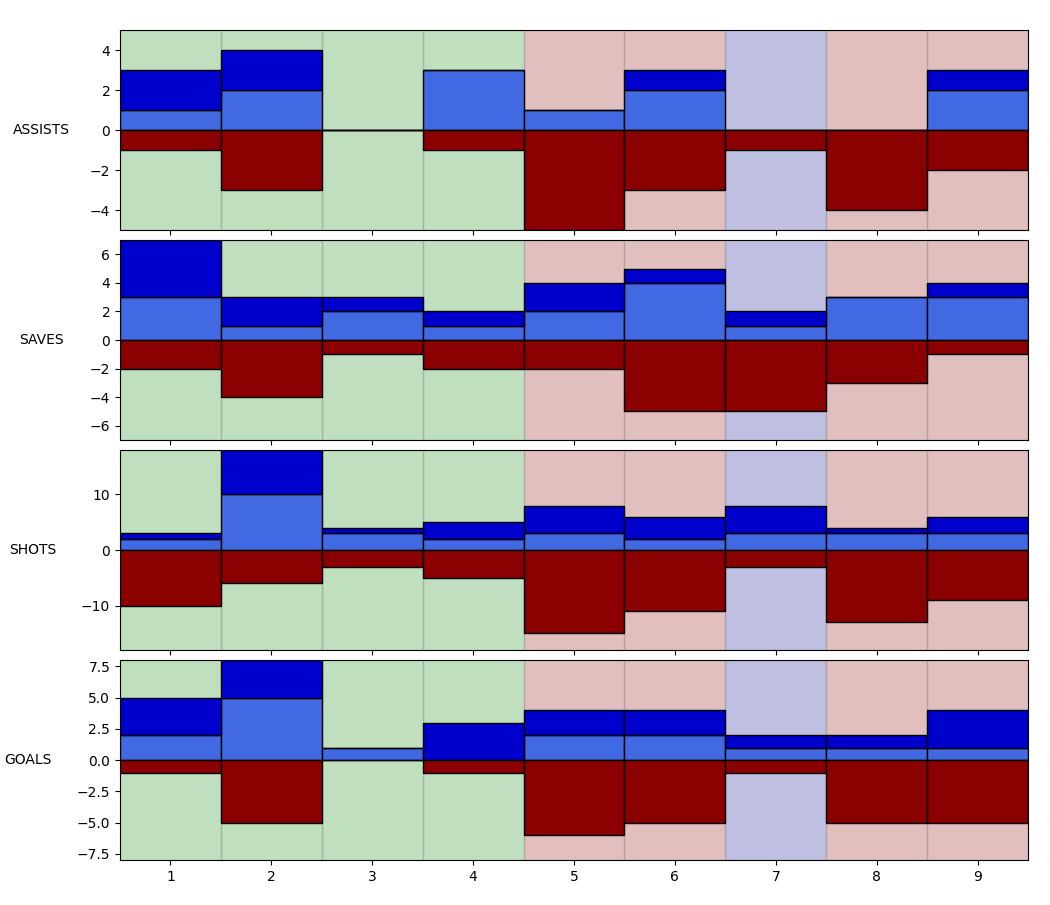
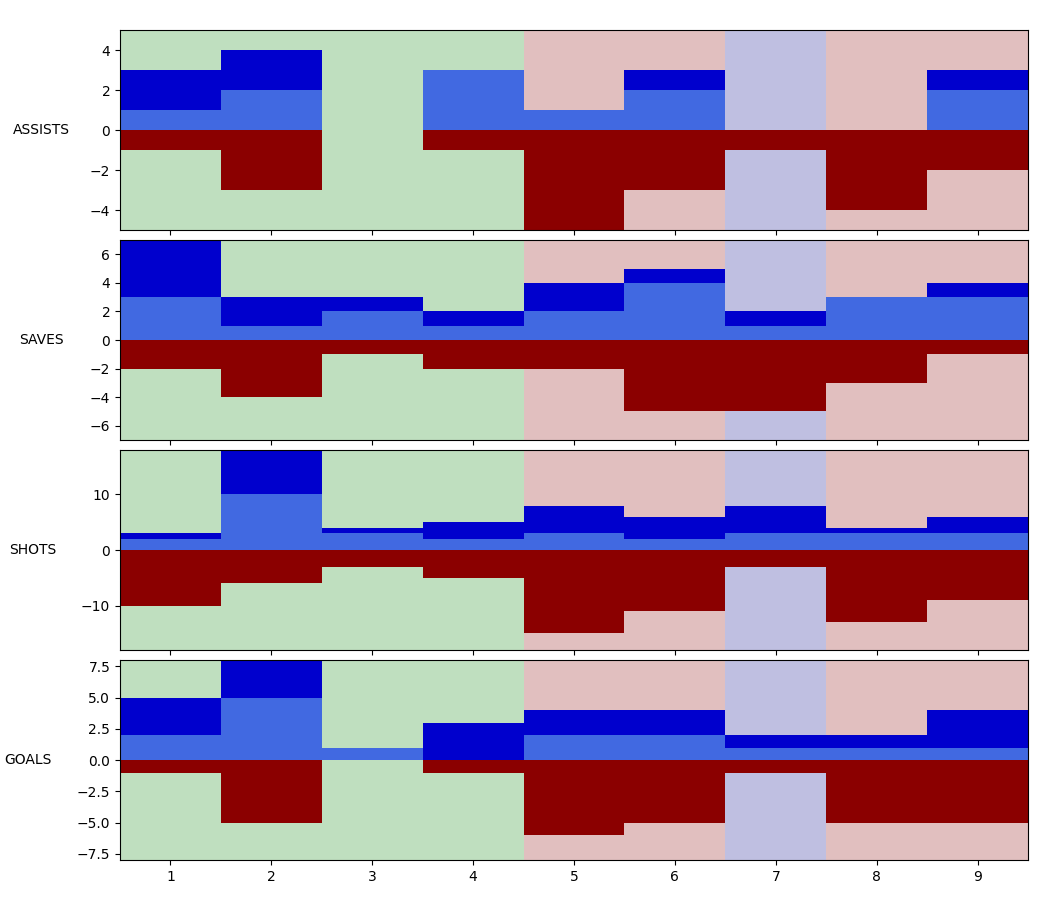
Removed outlines from ASSISTS, SAVES, SHOTS, GOALS charts

diff --git a/src/boxcarstest.py b/src/boxcarstest.py
@@ -31,8 +31,8 @@ from PIL import Image
 
 startTime = time.time()
 
-check_new = False  # Only processes new files (in separate directory)
-show_xg_scorelines = True # Shows xG scorelines and normal scorelines and replay names of games
+check_new = True  # Only processes new files (in separate directory)
+show_xg_scorelines = False # Shows xG scorelines and normal scorelines and replay names of games
 save_and_crop = True # Saves an image of the dashboard and then crops charts into their own images
 
 # Names in Rocket League
@@ -2711,12 +2711,12 @@ for entry in range(0, len(result_array_num)):
     new_result_array_num_up = limit
     new_result_array_num_down = -limit
 
-ax8.bar(range(1, games_nr + 1), new_result_array_num_up, color=result_color, width=1, alpha=0.25, ec="grey")
-ax8.bar(range(1, games_nr + 1), new_result_array_num_down, color=result_color, width=1, alpha=0.25, ec="grey")
+ax8.bar(range(1, games_nr + 1), new_result_array_num_up, color=result_color, width=1, alpha=0.25)
+ax8.bar(range(1, games_nr + 1), new_result_array_num_down, color=result_color, width=1, alpha=0.25)
 
-ax8.bar(range(1, games_nr + 1), my_goals_over_time, color=my_color, width=1, ec="black")
-ax8.bar(range(1, games_nr + 1), your_goals_over_time, color=your_color, bottom=my_goals_over_time, width=1, ec="black")
-ax8.bar(range(1, games_nr + 1), their_goals_over_time, color=their_color, width=1, ec="black")
+ax8.bar(range(1, games_nr + 1), my_goals_over_time, color=my_color, width=1)
+ax8.bar(range(1, games_nr + 1), your_goals_over_time, color=your_color, bottom=my_goals_over_time, width=1)
+ax8.bar(range(1, games_nr + 1), their_goals_over_time, color=their_color, width=1)
 for streak_game_num in streak_start_games:
     plt.axvline(x=streak_game_num + 0.5, color='black', linestyle='-')
 ax8.set_ylabel("GOALS", rotation="horizontal", ha="center", va="center", labelpad=35)
@@ -2735,12 +2735,12 @@ for entry in range(0, len(result_array_num)):
     new_result_array_num_up = limit
     new_result_array_num_down = -limit
 
-ax9.bar(range(1, games_nr + 1), new_result_array_num_up, color=result_color, width=1, alpha=0.25, ec="grey")
-ax9.bar(range(1, games_nr + 1), new_result_array_num_down, color=result_color, width=1, alpha=0.25, ec="grey")
+ax9.bar(range(1, games_nr + 1), new_result_array_num_up, color=result_color, width=1, alpha=0.25)
+ax9.bar(range(1, games_nr + 1), new_result_array_num_down, color=result_color, width=1, alpha=0.25)
 
-ax9.bar(range(1, games_nr + 1), my_shots_over_time, color=my_color, width=1, ec="black")
-ax9.bar(range(1, games_nr + 1), your_shots_over_time, color=your_color, bottom=my_shots_over_time, width=1, ec="black")
-ax9.bar(range(1, games_nr + 1), their_shots_over_time, color=their_color, width=1, ec="black")
+ax9.bar(range(1, games_nr + 1), my_shots_over_time, color=my_color, width=1)
+ax9.bar(range(1, games_nr + 1), your_shots_over_time, color=your_color, bottom=my_shots_over_time, width=1)
+ax9.bar(range(1, games_nr + 1), their_shots_over_time, color=their_color, width=1)
 ax9.set_xticklabels("")
 for streak_game_num in streak_start_games:
     plt.axvline(x=streak_game_num + 0.5, color='black', linestyle='-')
@@ -2759,13 +2759,13 @@ for entry in range(0, len(result_array_num)):
     new_result_array_num_up = limit
     new_result_array_num_down = -limit
 
-ax10.bar(range(1, games_nr + 1), new_result_array_num_up, color=result_color, width=1, alpha=0.25, ec="grey")
-ax10.bar(range(1, games_nr + 1), new_result_array_num_down, color=result_color, width=1, alpha=0.25, ec="grey")
+ax10.bar(range(1, games_nr + 1), new_result_array_num_up, color=result_color, width=1, alpha=0.25)
+ax10.bar(range(1, games_nr + 1), new_result_array_num_down, color=result_color, width=1, alpha=0.25)
 
 ax10.set_ylim(-limit, limit)
-ax10.bar(range(1, games_nr + 1), my_saves_over_time, color=my_color, width=1, ec="black")
-ax10.bar(range(1, games_nr + 1), your_saves_over_time, color=your_color, bottom=my_saves_over_time, width=1, ec="black")
-ax10.bar(range(1, games_nr + 1), their_saves_over_time, color=their_color, width=1, ec="black")
+ax10.bar(range(1, games_nr + 1), my_saves_over_time, color=my_color, width=1)
+ax10.bar(range(1, games_nr + 1), your_saves_over_time, color=your_color, bottom=my_saves_over_time, width=1)
+ax10.bar(range(1, games_nr + 1), their_saves_over_time, color=their_color, width=1)
 ax10.set_xticklabels("")
 for streak_game_num in streak_start_games:
     plt.axvline(x=streak_game_num + 0.5, color='black', linestyle='-')
@@ -2785,13 +2785,12 @@ for entry in range(0, len(result_array_num)):
     new_result_array_num_up = limit
     new_result_array_num_down = -limit
 
-ax11.bar(range(1, games_nr + 1), new_result_array_num_up, color=result_color, width=1, alpha=0.25, ec="grey")
-ax11.bar(range(1, games_nr + 1), new_result_array_num_down, color=result_color, width=1, alpha=0.25, ec="grey")
+ax11.bar(range(1, games_nr + 1), new_result_array_num_up, color=result_color, width=1, alpha=0.25)
+ax11.bar(range(1, games_nr + 1), new_result_array_num_down, color=result_color, width=1, alpha=0.25)
 
-ax11.bar(range(1, games_nr + 1), my_assists_over_time, color=my_color, width=1, ec="black")
-ax11.bar(range(1, games_nr + 1), your_assists_over_time, color=your_color, bottom=my_assists_over_time, width=1,
-         ec="black")
-ax11.bar(range(1, games_nr + 1), their_assists_over_time, color=their_color, width=1, ec="black")
+ax11.bar(range(1, games_nr + 1), my_assists_over_time, color=my_color, width=1)
+ax11.bar(range(1, games_nr + 1), your_assists_over_time, color=your_color, bottom=my_assists_over_time, width=1)
+ax11.bar(range(1, games_nr + 1), their_assists_over_time, color=their_color, width=1)
 ax11.set_xticklabels("")
 for streak_game_num in streak_start_games:
     plt.axvline(x=streak_game_num + 0.5, color='black', linestyle='-')
